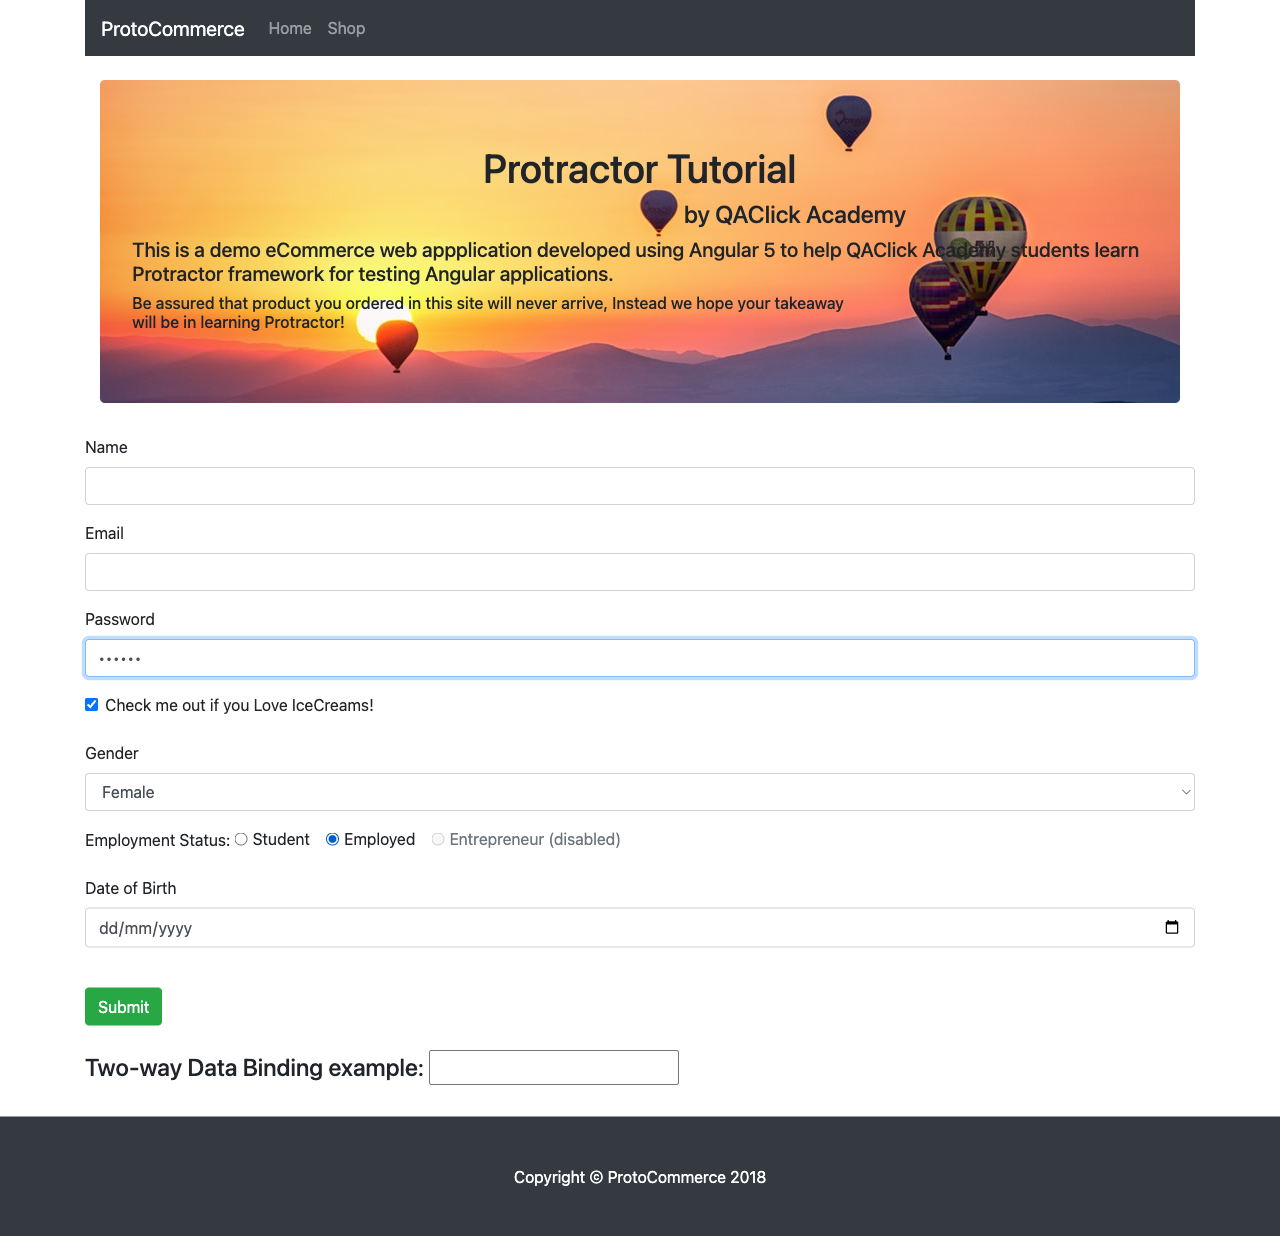
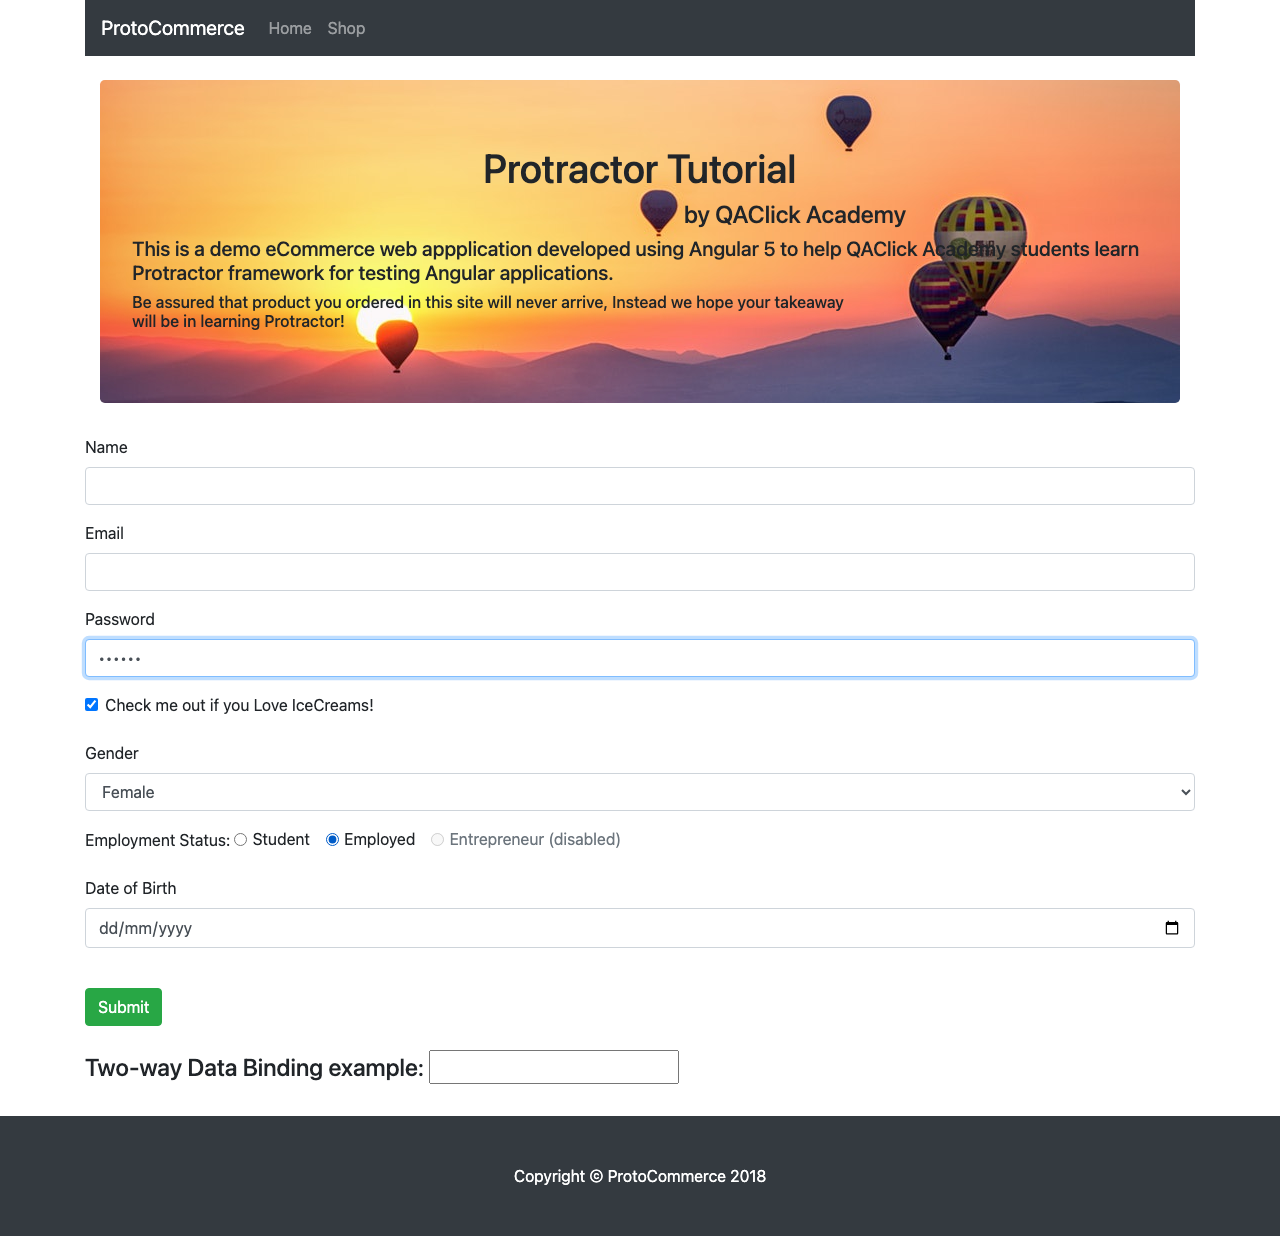
Added more test cases in MoreValidation file to test popup and iframe functionality

diff --git a/tests/MoreValidations.spec.js b/tests/MoreValidations.spec.js
@@ -1,5 +1,47 @@
 const { test, expect } = require('@playwright/test');
 const { text } = require('stream/consumers');
+//test.describe.configure({ mode: 'parallel' });
+
+test(' Popup validations', { tag: ['@SlowTest', '@Smoke'], }, async ({browser, page}) =>
+{
+  
+test.setTimeout(120_000);
+await page.goto("https://rahulshettyacademy.com/AutomationPractice/"); // this open the URL of application
+//await page.goto("https://google.com");
+//await page.goBack(); // methods to move back and forth in browsers and hit URLs 
+//await page.goForward();
+
+ await expect(page.locator("#displayed-text")).toBeVisible();
+ await page.locator('#hide-textbox').click();
+ await expect(page.locator("#displayed-text")).toBeHidden();
+ //to handle dialog 
+ await page.pause();
+ page.on('dialog',dialog => dialog.accept()); // to accept the alert
+ //page.on('dialog',dialog => dialog.dismiss()); // to cancel the alert
+ await page.locator('#alertbtn').click();
+ await page.locator('#mousehover').hover();
+ await page.locator('[href*="#top"]').click();
+
+});
+
+test.only('Alert popup validaton',async({page}) =>
+  {
+await page.goto("https://testautomationpractice.blogspot.com/");
+page.on('dialog', dialog => dialog.accept());
+await page.locator("#alertBtn").click();
+
+const table = await page.locator("[name*='BookTable']");
+const Subjectvalue= await table.locator("tr").nth(4).locator("td").nth(2).textContent();
+console.log(Subjectvalue);
+
+});
+
+test('iframe test validation',async({page})=> {
+await page.goto("https://rahulshettyacademy.com/AutomationPractice/");
+const framespage = page.frameLocator("#courses-iframe");
+//to locate a visible locator
+await framespage.locator("li a [href]:visible").click();
+});
 
 test('@Smoke Playwright Special locators', async ({ browser, page }) => {
   //getByLabel locator
@@ -45,3 +87,4 @@ test('@Smoke Screenshot and Visual testing', async ({ browser, page }) => {
   await locator.hover();
   await locator.click();
 });
+

diff --git a/playwright.config.js b/playwright.config.js
@@ -14,8 +14,8 @@ import { chromium, defineConfig, devices } from '@playwright/test';
  */
 const config = ({
   testDir: './tests/',
-  retries: 1,
-  workers:4,
+  //retries: 1,
+  //workers:4,
   timeout:60000, //maximum time one test can run for
   expect : {
     timeout: 50000, //maximum time one assertion can run for
@@ -26,7 +26,7 @@ const config = ({
    //navigationTimeout : 30 * 1000,
     browserName: 'chromium',  //use to define the browser type, webkit- used for safari
     baseURL: 'https://eventhub.rahulshettyacademy.com/login',
-    headless : true,
+    headless : false,
     screenshot : 'on',
     trace : 'on', //traces for all test cases
     //trace : 'retain-on-failure' // traces for failed test cases
